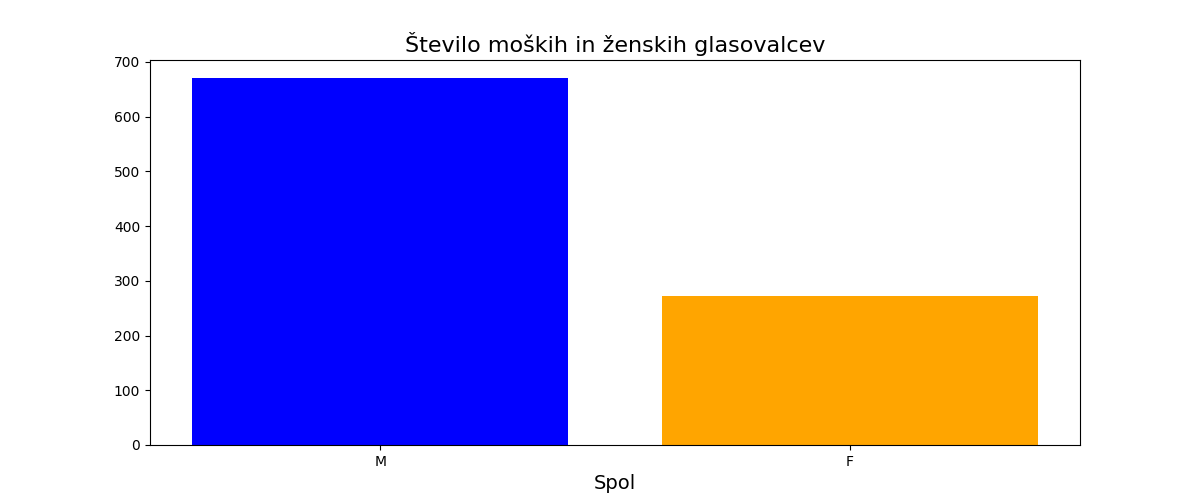
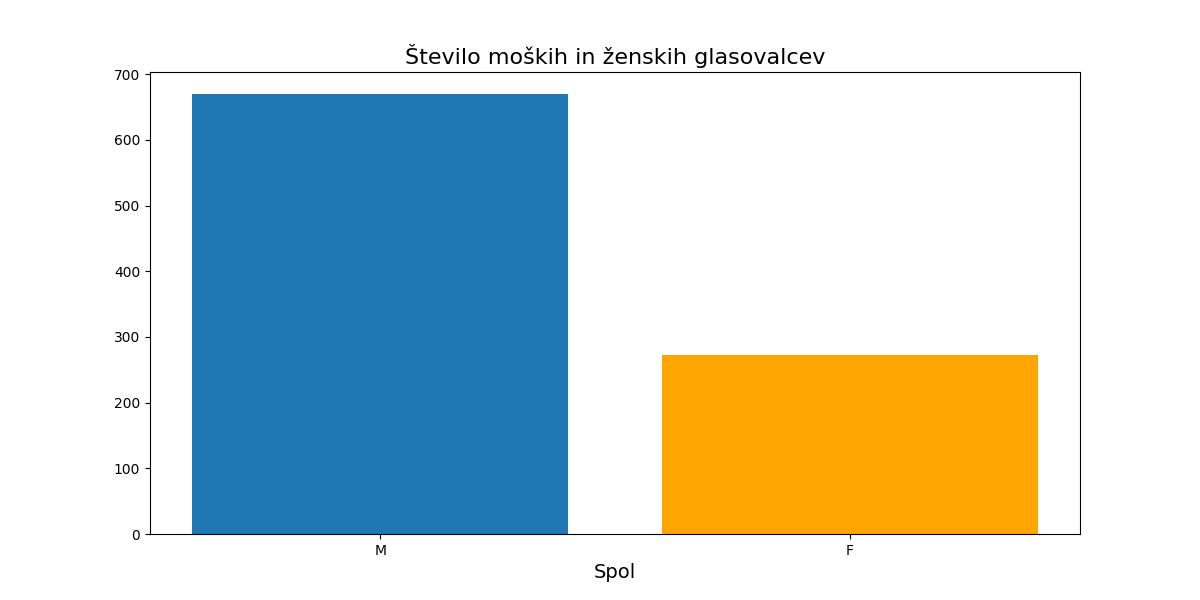
added data processing and filtering

diff --git a/collaborative_filtering.py b/collaborative_filtering.py
@@ -1,6 +1,7 @@
 import numpy as np
 import pandas as pd
 from sklearn.metrics import mean_squared_error, pairwise
+from sklearn.metrics import mean_absolute_error
 
 def collaborativeFiltering():
     # # load item data
@@ -13,54 +14,141 @@ def collaborativeFiltering():
 
     # load ratings data
     rating = pd.read_csv("ml-100k/u.data", sep="\t", names=["user_id", "item_id", "rating", "timestamp"])
+    users = pd.read_csv("ml-100k/u.user", sep="|", encoding="latin-1", names=["user_id", "age", "gender", "occupation", "zip_code"])
 
-    # peak at dataframe
-    item.head()
+    # print(item, rating, users)
 
+    """
+        ITEMS
+    """
+    # peak at dataframe for items
+    print("ITEMS")
+    # print(item.head())
+    # print()
     # we only need the movie_id and movie_title
     movies = item.loc[:, :"movie_title"].copy()
-    movies.head()
 
     print(movies.movie_title)
+    print()
+
+    """
+        RATINGS
+    """
 
     # peak at rating data
-    rating.head()
+    print("RATINGS")
+    # print(rating.head())
+
 
     # dropping timestamp
     rating.drop("timestamp", axis=1, inplace=True)
     print(rating.head())
+    print()
+
+    """
+        N X M matrix where n is user_id and m is item_id, 
+        so we have all the data about the rating of n user for m item.
+    """
 
     # creating n x m matrix where n is user_id and m is item_id
     user_ratings = pd.pivot_table(rating, index="user_id", columns="item_id", values="rating").fillna(0)
+    user_ratings_transpose = user_ratings.T
+    user_ratings_transpose.to_csv('data/ratings.csv', sep='\t', encoding='utf-8')
+
 
     # user and item counts
     n_users = len(user_ratings.index)
     n_items = len(user_ratings.columns)
+    n_ratings = len(rating.index)
 
-    print(f"Users: {n_users}\nItems: {n_items}")
-    print(user_ratings)
+
+    print(f"Number of users: {n_users}\nNumber of items: {n_items}")
+    print(user_ratings.head())
+
+    """
+        Sparseness of the matrix.
+    """
+
+    sparsity = (1 - n_ratings/(n_items*n_users))*100;
+    print(sparsity)
+
+    """
+        In this dataset, every user has rated at least 20 movies which results in a sparsity of 93.7%. 
+        That means that 6.3% of the user-item ratings have a value.
+    """
+
 
     train, test = train_test_split(data=user_ratings.to_numpy(), n_users=n_users, n_items=n_items)
+
+    """
+        Cosine distance to obtain similarity matrix.
+    """
 
     user_similarity = pairwise.cosine_similarity(train + 1e-9)
     item_similarity = pairwise.cosine_similarity(train.T + 1e-9)
 
-    print(user_similarity.shape, item_similarity.shape)
+    # print(user_similarity.shape, item_similarity.shape)
+    print()
+    print("USER SIMILARITY MATRIX")
+    print()
+    print(user_similarity)
+    print()
+
+    """
+        User based collaborative filtering.
+    """
+
+    # predict user ratings not included in data
+    user_preds = np.dot(user_similarity, train) / np.array([np.abs(user_similarity).sum(axis=1)]).T
+
+    # get the nonzero elements
+    nonzero_test = test[test.nonzero()]
+    nonzero_user_preds = user_preds[test.nonzero()]
+
+    user_rating_preds = mean_squared_error(nonzero_test, nonzero_user_preds)
+    print(f"UBCF Mean Squared Error: {user_rating_preds}")
+    user_rating_preds1 = mean_absolute_error(nonzero_test, nonzero_user_preds)
+    print(f"UBCF Mean Absolute Error: {user_rating_preds1}")
 
 def train_test_split(data: np.array, n_users: int, n_items: int):
         # create a empty array of shape n x m for test
         test = np.zeros((n_users, n_items))
         train = data.copy()
 
-        # for each user, we generate a random sample of 5 from movies they've watched
+
+        dataSamples = open('samples.txt', 'w')
+
+        # for each user, we generate a random sample of 10 from movies they've watched
         for user in range(n_users):
+            print(user, file=dataSamples)
             random_sample = np.random.choice(data[user, :].nonzero()[0],
-                                             size=5,
+                                             size=10,
                                              replace=False)
+            print(random_sample, file= dataSamples)
+            print("\n", file=dataSamples)
+            ratings1 = pd.DataFrame(data)
+            # ratings1.to_csv('filtering/ratings.csv', sep='\t', encoding='utf-8')
+
             # set the train to zero to represent no rating and the test will be the original rating
             train[user, random_sample] = 0.
-            test[user, random_sample] = data[user, random_sample]
 
+            print("TRAIN")
+            print(train, file=dataSamples)
+            print("\n", file=dataSamples)
+            # train1 = pd.DataFrame(train)
+            # train1.to_csv('filtering/train.csv', sep='\t', encoding='utf-8')
+
+            test[user, random_sample] = data[user, random_sample]
+            print("TEST")
+            print(test, file=dataSamples)
+            print("\n", file=dataSamples)
+            # test1 = pd.DataFrame(test)
+            # test1.to_csv('filtering/test.csv', sep='\t', encoding='utf-8')
+
+
+
+
+        dataSamples.close()
         return train, test
 
 

diff --git a/data_processing.py b/data_processing.py
@@ -78,7 +78,7 @@ def dataProcess():
     top_ten_movies = full_df.groupby("movie_title").size().sort_values(ascending=False)[:10]
 
     # plot the counts
-    plt.figure(figsize=(20, 5))
+    plt.figure(figsize=(12, 10))
     plt.barh(y= top_ten_movies.index,
              width= top_ten_movies.values)
     plt.title("10 Najbolj ocenjenih filmov", fontsize=16)
@@ -100,7 +100,7 @@ def dataProcess():
 
     least_10_movies = full_df.groupby("movie_title").size().sort_values(ascending=False)[-10:]
     # plot the counts
-    plt.figure(figsize=(20, 5))
+    plt.figure(figsize=(10, 8))
     plt.barh(y=least_10_movies.index,
              width=least_10_movies.values)
     plt.title("10 Least Rated Movies in the Data", fontsize=16)
@@ -124,8 +124,8 @@ def dataProcess():
 
 
     # plot the counts
-    plt.figure(figsize=(12, 5))
-    plt.bar(x=gender_counts.index[0], height=gender_counts.values[0], color="blue")
+    plt.figure(figsize=(12, 6))
+    plt.bar(x=gender_counts.index[0], height=gender_counts.values[0],)
     plt.bar(x=gender_counts.index[1], height=gender_counts.values[1], color="orange")
     plt.title("Število moških in ženskih glasovalcev", fontsize=16)
     plt.xlabel("Spol", fontsize=14)
@@ -133,7 +133,7 @@ def dataProcess():
     plt.savefig('visualization/ratings_by_gender.png')
     # plt.show()
 
-    full_df[genres + ["gender"]].groupby("gender").sum().T.plot(kind="barh", figsize=(12, 5), color=["orange", "blue"])
+    full_df[genres + ["gender"]].groupby("gender").sum().T.plot(kind="barh", figsize=(12, 10), color=["orange", "#1F77B4"])
     plt.xlabel("", fontsize=14)
     plt.ylabel("Žanri", fontsize=14)
     plt.title("Popularnost žanrov med spoloma", fontsize=16)
@@ -149,7 +149,7 @@ def dataProcess():
     label_counts = item_df.loc[:, "unknown":].sum().values
 
     # plot a bar chart
-    plt.figure(figsize=(12, 5))
+    plt.figure(figsize=(12, 10))
     plt.barh(y=label, width=label_counts)
     plt.title("Popularnost žanrov", fontsize=16)
     plt.ylabel("Žanri", fontsize=14)
@@ -165,7 +165,7 @@ def dataProcess():
     occ_label_counts = user_df.occupation.value_counts().values
 
     # plot horizontal bar chart
-    plt.figure(figsize=(12, 5))
+    plt.figure(figsize=(12, 10))
     plt.barh(y=occ_label, width=occ_label_counts)
     plt.title("Most common User Occupations", fontsize=16)
     plt.savefig('visualization/occupations.png')

diff --git a/main.py b/main.py
@@ -11,7 +11,7 @@ from collaborative_filtering import *
 print("........................................................")
 print(" DATA IS BEING PROCESSED ")
 print("........................................................")
-dataProcess()
+# dataProcess()
 print(" DATA IS PROCESSED ")
 
 print("........................................................")
